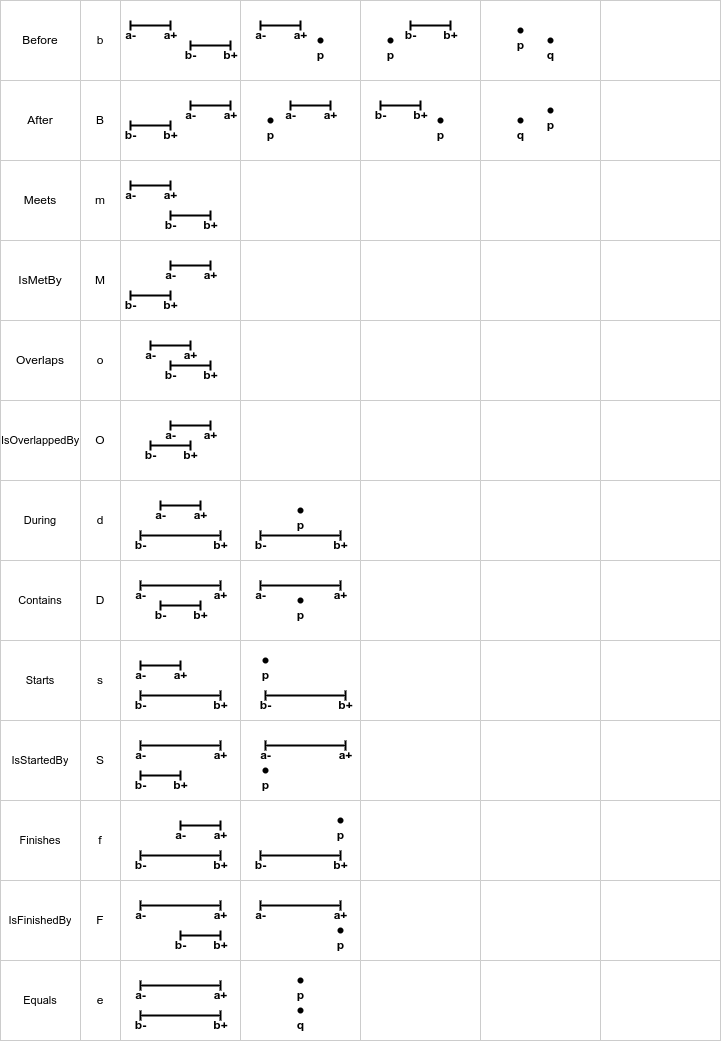
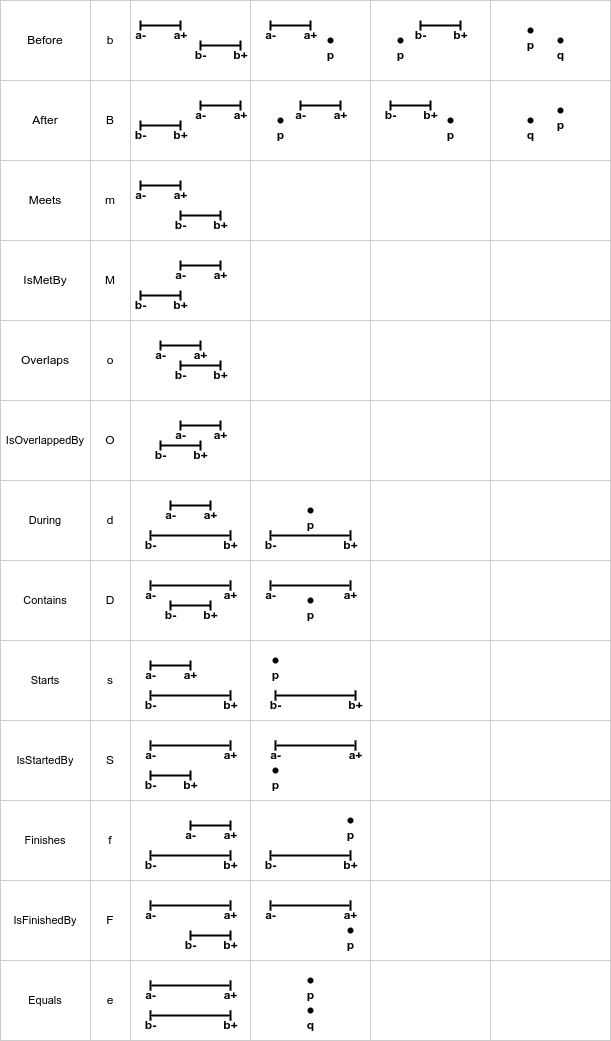
update relations

diff --git a/README.md b/README.md
@@ -6,6 +6,14 @@
 
 <br clear="right" /><!-- Turn off the wrapping for the logo image. -->
 
+## Usage
+
+Add the following dependency to your `build.sbt`:
+
+```scala
+libraryDependencies += "com.github.gchudnov" %% "mindthegap" % "0.2.0"
+```
+
 ## Intervals
 
 - Empty | `[b, a] = (b, a) = [b, a) = (b, a] = (a, a) = [a, a) = (a, a] = {} = ∅`
@@ -25,13 +33,13 @@
 
 ## Relations
 
-## Usage
+The library support the following relations:
 
-Add the following dependency to your `build.sbt`:
+- **Point-Point (PP)** relations between a pair of points.
+- **Point-Interval (PI)** relations that between a point and an interval.
+- **Interval-Interval (II)** relations that between a pair of intervals.
 
-```scala
-libraryDependencies += "com.github.gchudnov" %% "mindthegap" % "0.2.0"
-```
+![relations.png](res/relations.png)
 
 ## Interval Creation
 
@@ -136,6 +144,29 @@ Interval.rightClosed(5)
 ```scala
 // (-∞, +∞) = R
 Interval.unbounded[Int]
+```
+
+## Relation Check
+
+A relation between a pair of intervals can be checked.
+
+```text
+  Relation                  AAAAA
+  before(a,b)      b|B      :   : BBBBBBBBB  |  a+ < b-
+  meets(a,b)       m|M      :   BBBBBBBBB    |  a+ = b-
+  overlaps(a,b)    o|O      : BBBBBBBBB      |  a- < b- < a+ ; a+ < b+
+  starts(a,b)      s|S      BBBBBBBBB        |  a- = b- ; a+ < b+
+  during(a,b)      d|D    BBBBBBBBB          |  a- > b- ; a+ < b+
+  finishes(a,b)    f|F  BBBBBBBBB            |  a+ = b+ ; a- > b-
+  equals(a, b)     e        BBBBB            |  a- = b- ; a+ = b+
+```
+
+```scala
+// before
+Interval.open(1, 4).before(Interval.open(3, 6)) // true
+
+// after
+Interval.open(3, 6).after(Interval.open(1, 4)) // true
 ```
 
 ## Show
